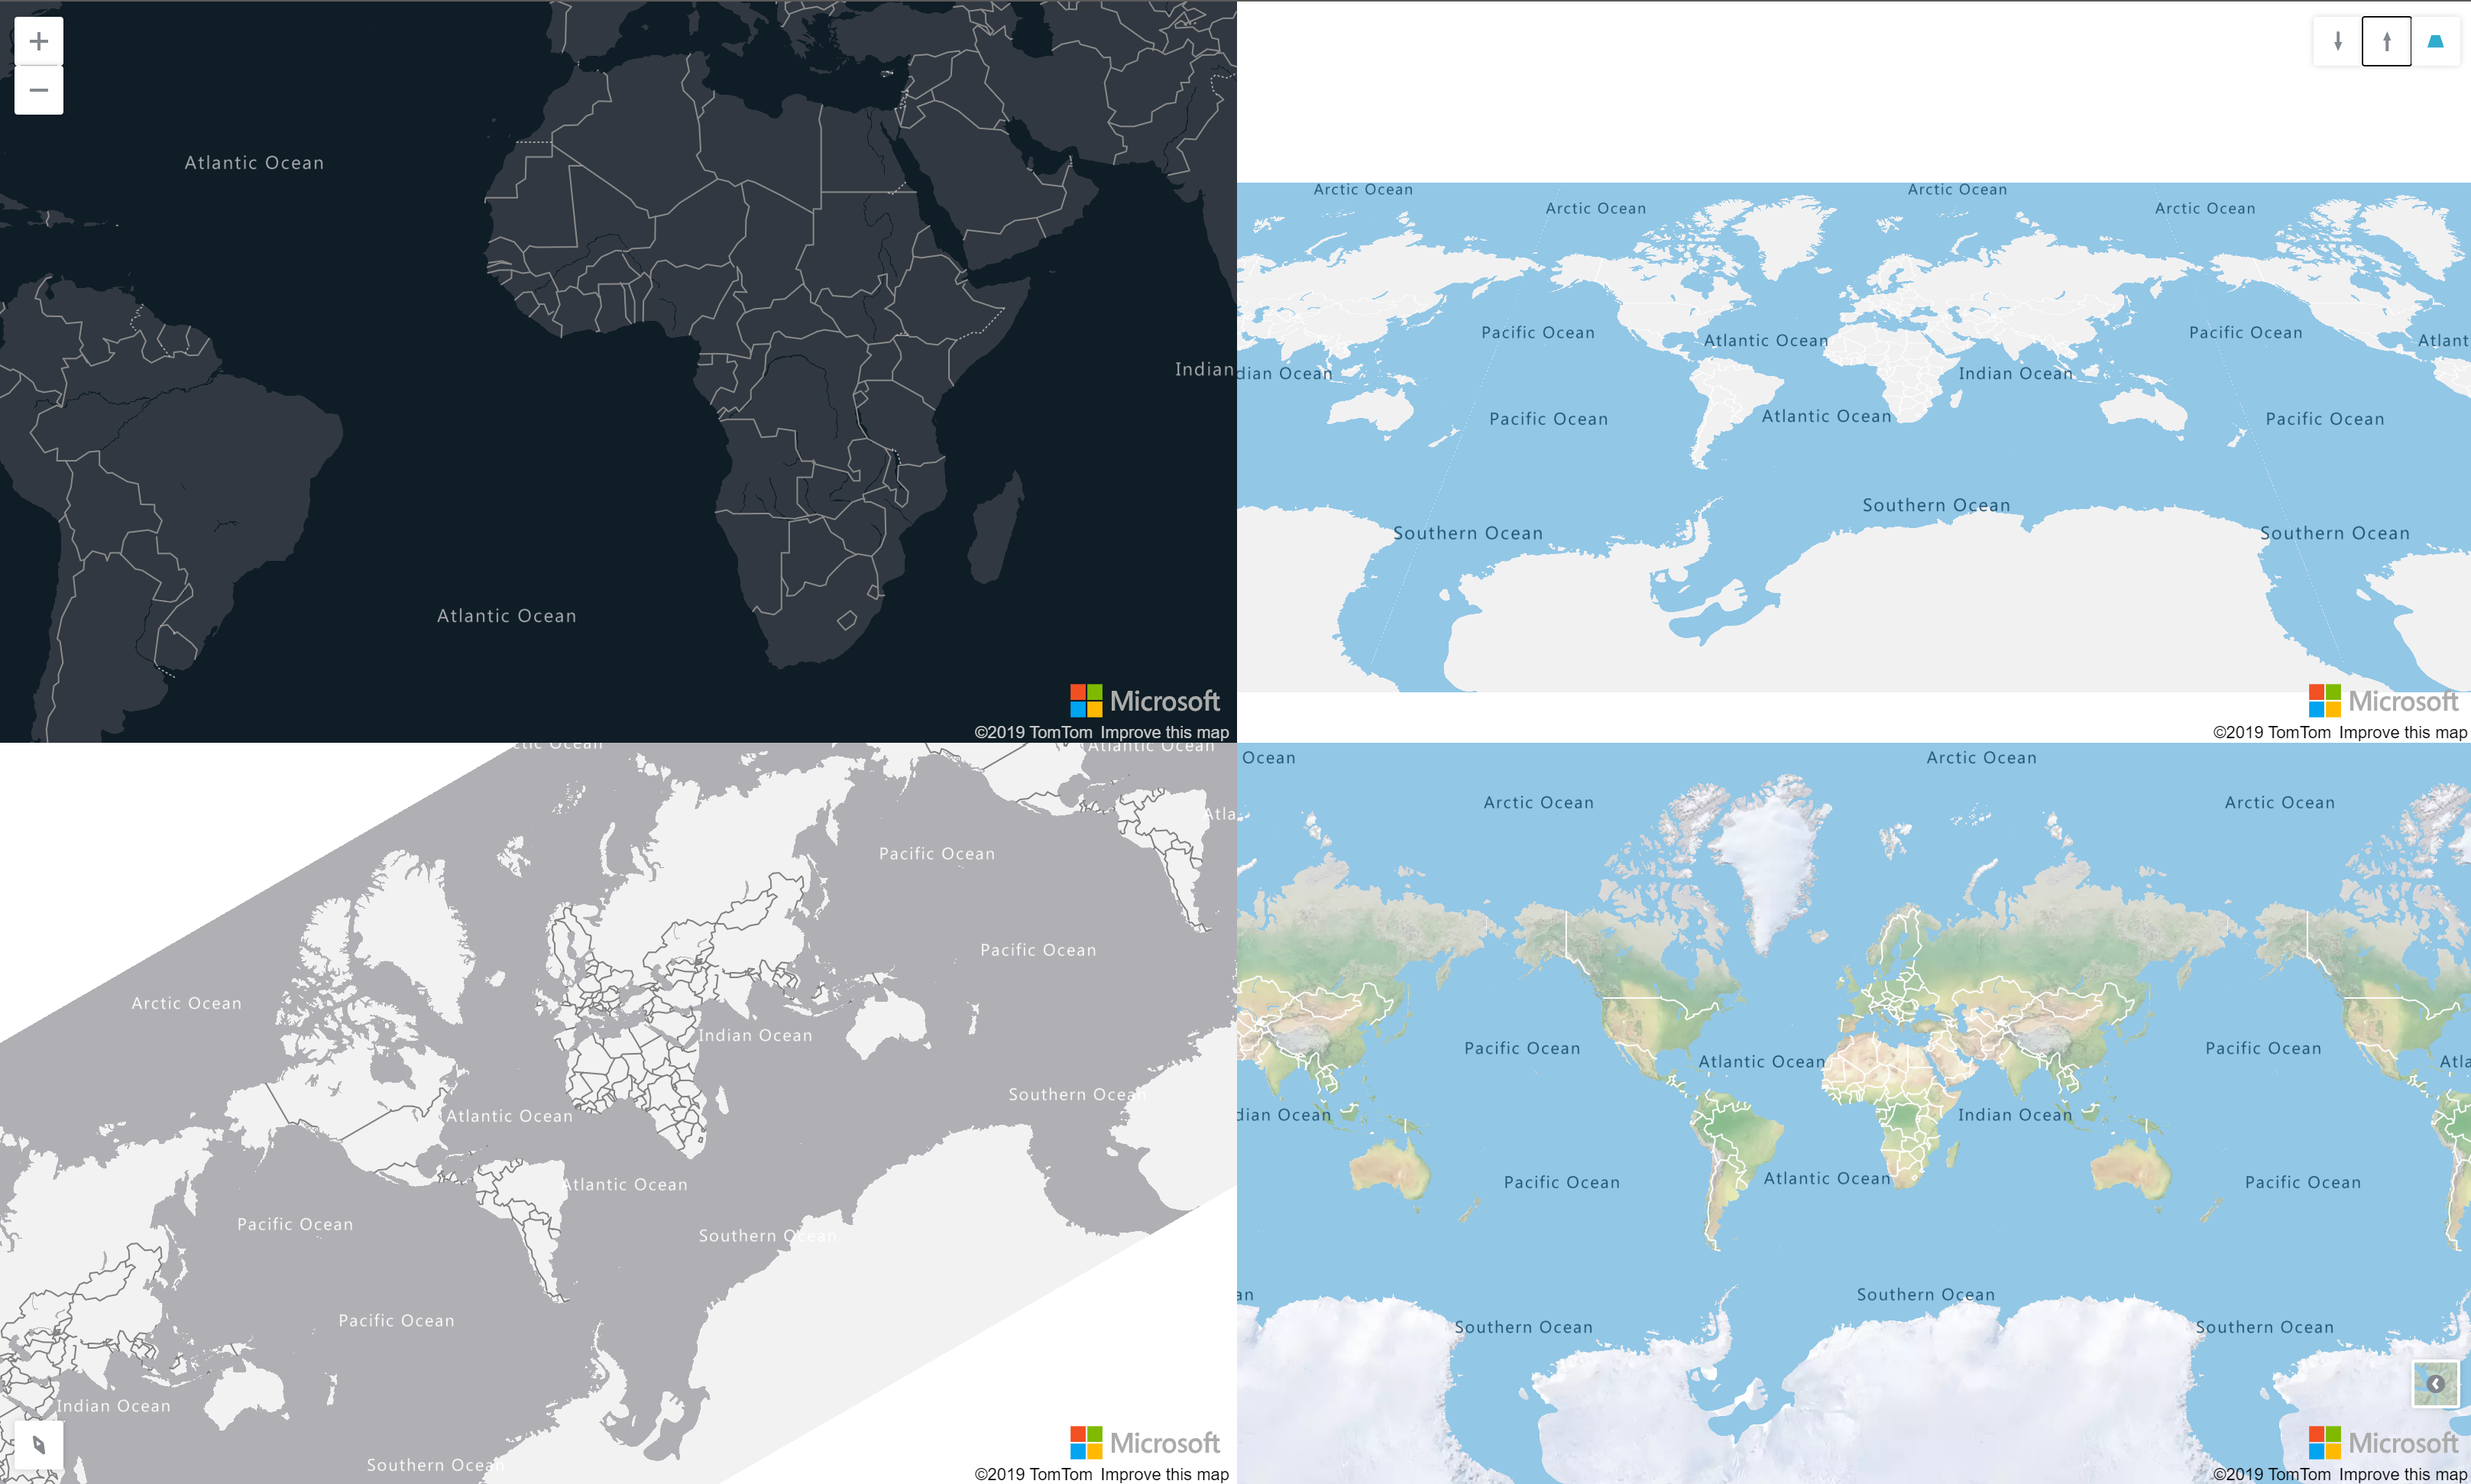
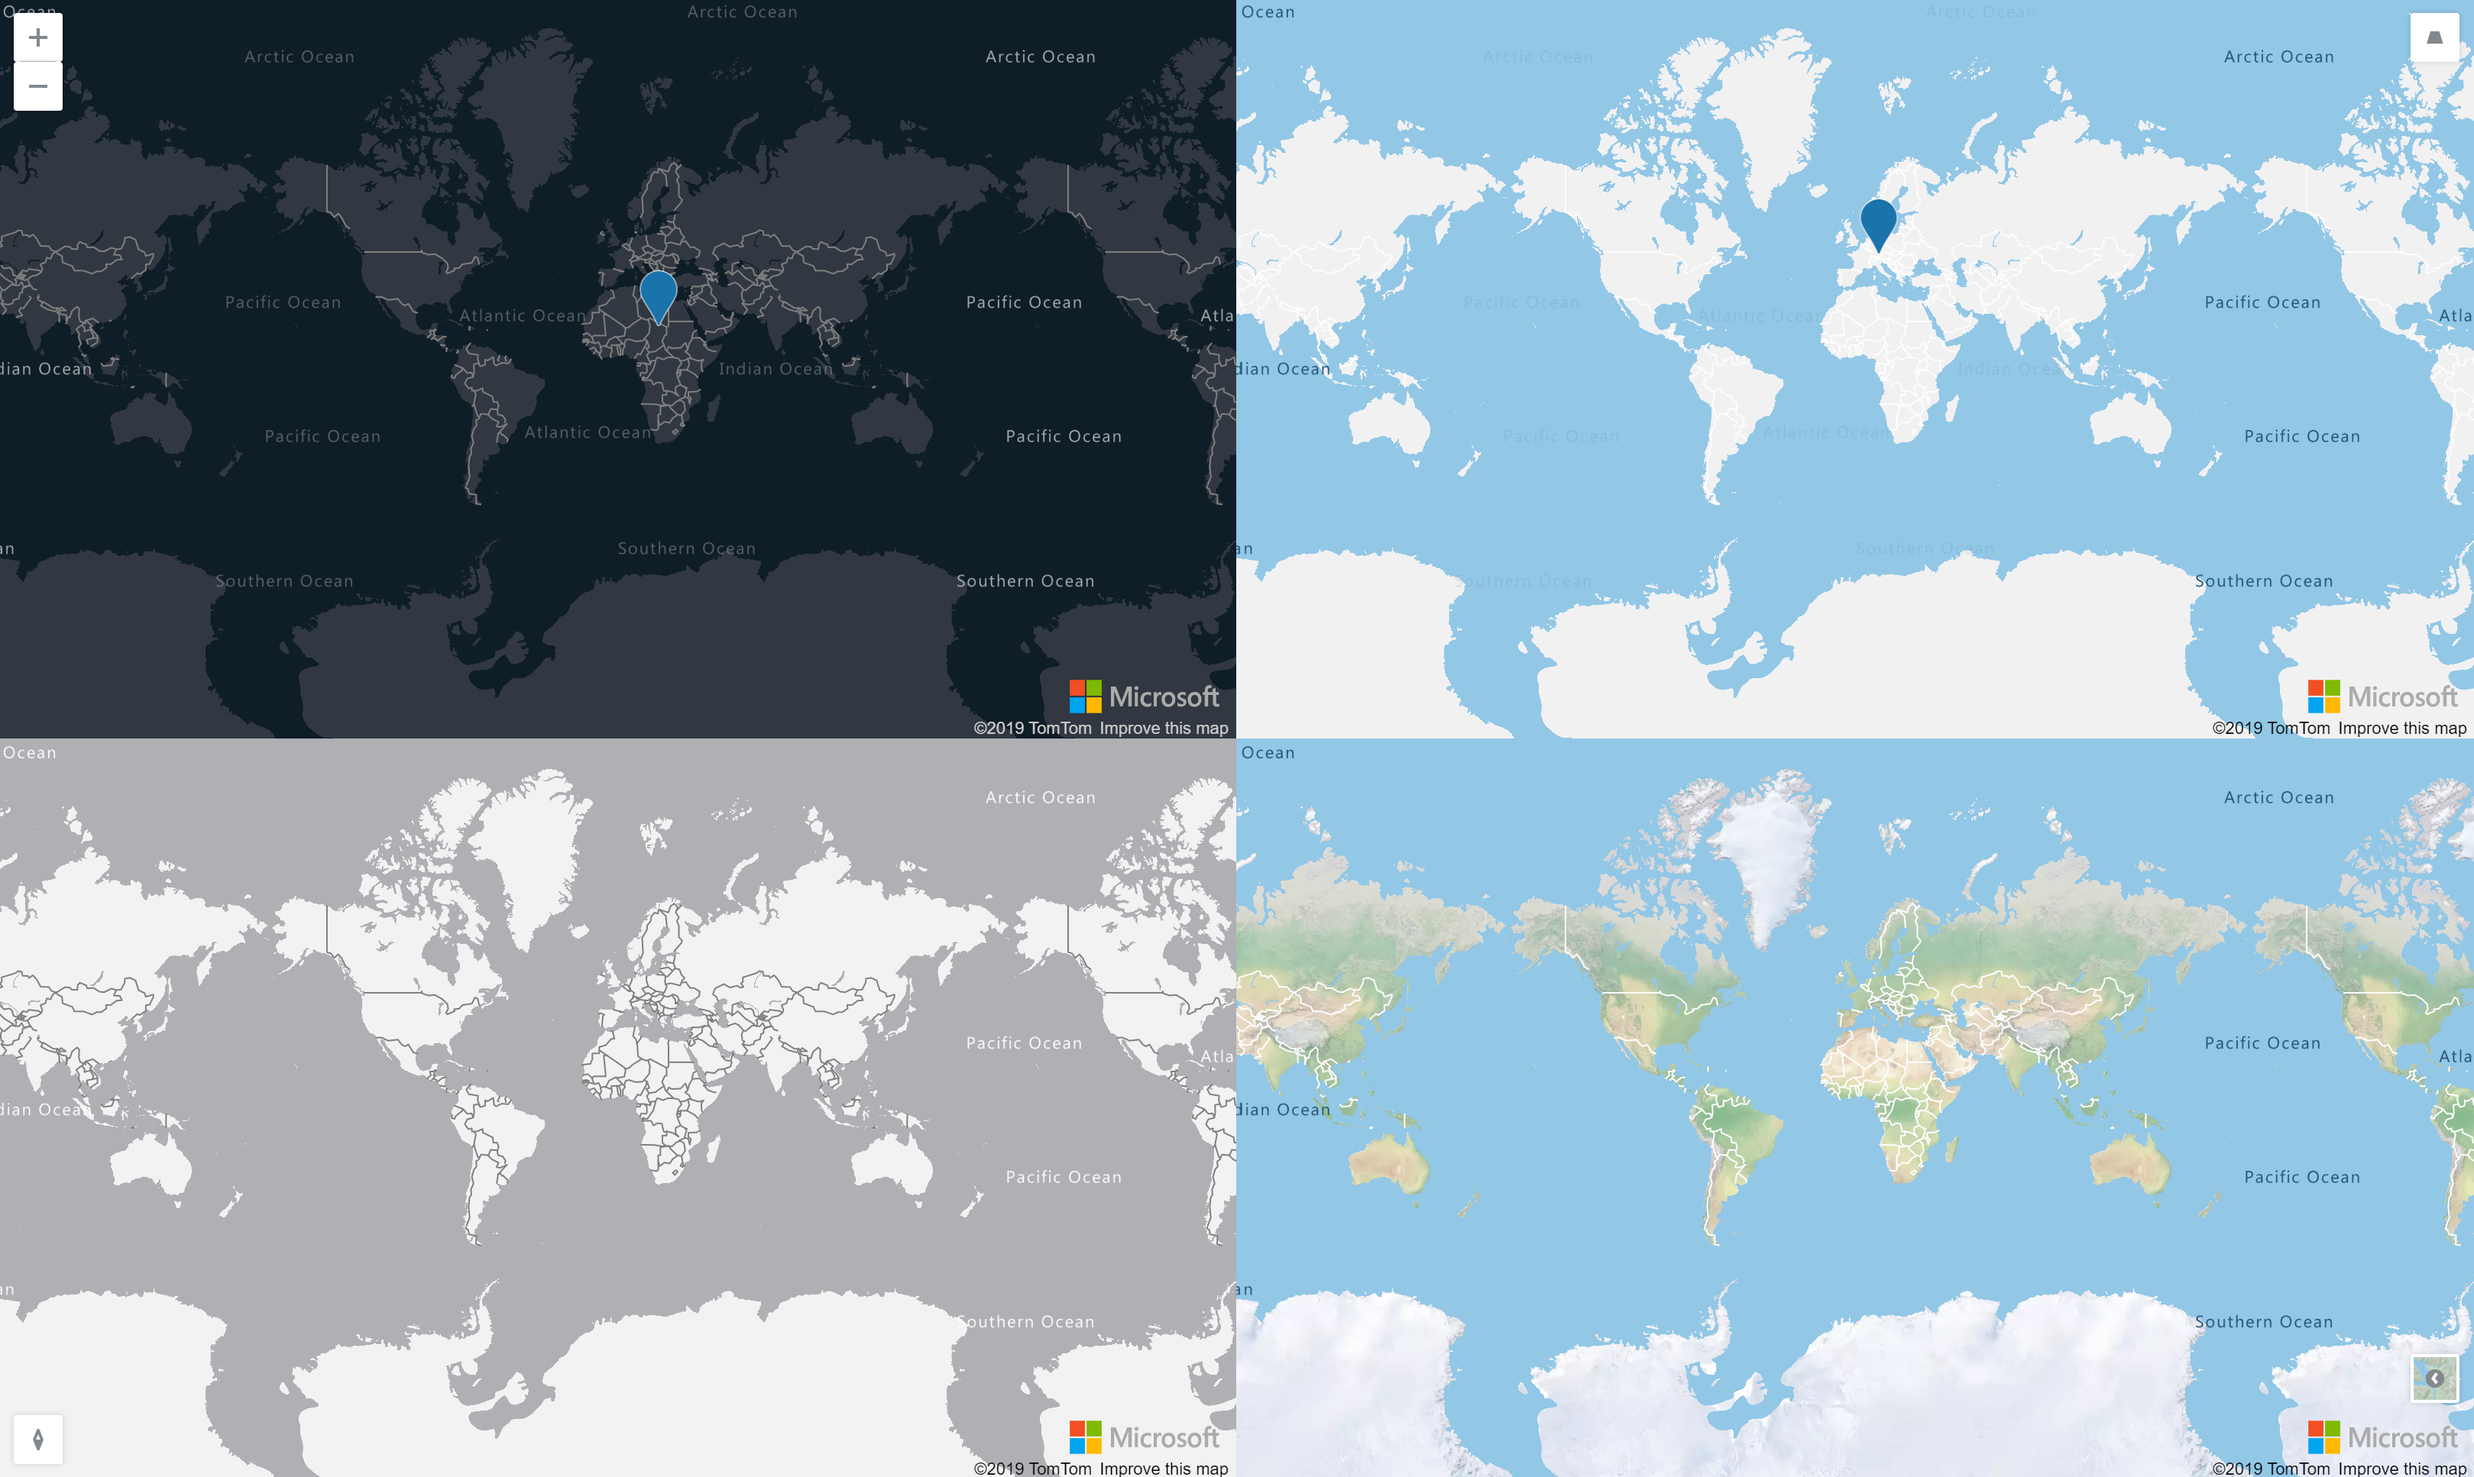
Adding element tag on directives

diff --git a/projects/ng-azure-maps/src/lib/directives/markers/html-marker.directive.ts b/projects/ng-azure-maps/src/lib/directives/markers/html-marker.directive.ts
@@ -3,7 +3,7 @@ import { Map, Pixel } from 'azure-maps-control';
 import * as atlas from 'azure-maps-control';
 
 @Directive({
-  selector: '[html-marker]'
+  selector: '[html-marker], html-marker'
 })
 export class HtmlMarkerDirective
   implements OnChanges, OnDestroy {
@@ -22,24 +22,29 @@ export class HtmlMarkerDirective
   @Input() public visible: boolean;
 
   ngOnChanges(changes: SimpleChanges) {
-    this._marker.setOptions({
-      anchor: this.anchor,
-      color: this.color,
-      draggable: this.draggable,
-      htmlContent: this.htmlContent,
-      pixelOffset: this.pixelOffset,
-      position: this.position,
-      secondaryColor: this.secondaryColor,
-      text: this.text,
-      visible: this.visible
-    });
+    if (this._marker) {
+      this._marker.setOptions({
+        anchor: this.anchor,
+        color: this.color,
+        draggable: this.draggable,
+        htmlContent: this.htmlContent,
+        pixelOffset: this.pixelOffset,
+        position: this.position,
+        secondaryColor: this.secondaryColor,
+        text: this.text,
+        visible: this.visible
+      });
+    }
   }
 
   ngOnDestroy() {
-    this._map.markers.remove(this._marker);
+    if (this._map) {
+      this._map.markers.remove(this._marker);
+    }
   }
 
   public addToMap(map: Map) {
+    this._map = map;
     this._marker = new atlas.HtmlMarker({
       anchor: this.anchor,
       color: this.color,
@@ -53,8 +58,6 @@ export class HtmlMarkerDirective
     });
 
     map.markers.add(this._marker);
-
-    this._map = map;
   }
 
 }

diff --git a/projects/samples-ng-azure-maps/src/app/app.component.html b/projects/samples-ng-azure-maps/src/app/app.component.html
@@ -1,13 +1,14 @@
-<div azure-map [center]="[0, 0]" mapStyle='grayscale_dark' view='Auto' zoom="2" class="top-left">
-  <div zoom-control position='top-left'></div>
-  <div *ngIf="markerPosition" html-marker [position]="markerPosition"></div>
-</div>
-<!-- <div azure-map [center]="[0, 0]" mapStyle='road' view='Auto' zoom="2" class="top-right">
-  <div pitch-control position="top-right"></div>
+<azure-map [center]="[0, 0]" mapStyle='grayscale_dark' view='Auto' zoom="2" class="top-left">
+  <zoom-control position='top-left'></zoom-control>
+  <html-marker *ngIf="markerPosition" [position]="markerPosition"></html-marker>
+</azure-map>
+<div azure-map [center]="[0, 0]" mapStyle='road' view='Auto' [zoom]="2" class="top-right">
+  <pitch-control position="top-right"></pitch-control>
+  <html-marker [position]="[11.47, 48.18]"></html-marker>
 </div>
 <div azure-map [center]="[0, 0]" mapStyle='grayscale_light' view='Auto' zoom="2" class="bottom-left">
-  <div compass-control position="bottom-left"></div>
+  <compass-control position="bottom-left"></compass-control>
 </div>
 <div azure-map [center]="[0, 0]" mapStyle='road_shaded_relief' view='Auto' zoom="2" class="bottom-right">
-  <div style-control position="bottom-right"></div>
-</div> -->
+  <style-control position="bottom-right"></style-control>
+</div>

diff --git a/projects/ng-azure-maps/src/lib/directives/map/azure-map.directive.ts b/projects/ng-azure-maps/src/lib/directives/map/azure-map.directive.ts
@@ -10,7 +10,7 @@ import { StyleControlDirective } from '../controls/style-control.directive';
 import { HtmlMarkerDirective } from '../markers/html-marker.directive';
 
 @Directive({
-  selector: '[azure-map]',
+  selector: '[azure-map], azure-map',
   queries: {
     zoomControl: new ContentChild(ZoomControlDirective),
     pitchControl: new ContentChild(PitchControlDirective),
@@ -20,7 +20,7 @@ import { HtmlMarkerDirective } from '../markers/html-marker.directive';
   }
 })
 export class AzureMapDirective
-  implements AfterViewInit, AfterContentChecked, OnDestroy {
+  implements AfterViewInit, OnDestroy {
 
   private _map: Map;
 
@@ -140,10 +140,6 @@ export class AzureMapDirective
       }
 
     });
-  }
-
-  ngAfterContentChecked() {
-
   }
 
   ngOnDestroy() {

diff --git a/projects/ng-azure-maps/src/lib/directives/controls/zoom-control.directive.ts b/projects/ng-azure-maps/src/lib/directives/controls/zoom-control.directive.ts
@@ -4,7 +4,7 @@ import * as atlas from 'azure-maps-control';
 import { ControlDirective } from './control.directive';
 
 @Directive({
-  selector: '[zoom-control]'
+  selector: '[zoom-control], zoom-control'
 })
 export class ZoomControlDirective
   extends ControlDirective {

diff --git a/projects/ng-azure-maps/src/lib/directives/controls/compass-control.directive.ts b/projects/ng-azure-maps/src/lib/directives/controls/compass-control.directive.ts
@@ -4,7 +4,7 @@ import { Map } from 'azure-maps-control';
 import * as atlas from 'azure-maps-control';
 
 @Directive({
-  selector: '[compass-control]'
+  selector: '[compass-control], compass-control'
 })
 export class CompassControlDirective
   extends ControlDirective {

diff --git a/projects/ng-azure-maps/src/lib/directives/controls/pitch-control.directive.ts b/projects/ng-azure-maps/src/lib/directives/controls/pitch-control.directive.ts
@@ -4,7 +4,7 @@ import { Map } from 'azure-maps-control';
 import * as atlas from 'azure-maps-control';
 
 @Directive({
-  selector: '[pitch-control]'
+  selector: '[pitch-control], pitch-control'
 })
 export class PitchControlDirective
   extends ControlDirective {

diff --git a/projects/ng-azure-maps/src/lib/directives/controls/style-control.directive.ts b/projects/ng-azure-maps/src/lib/directives/controls/style-control.directive.ts
@@ -4,7 +4,7 @@ import { Map } from 'azure-maps-control';
 import * as atlas from 'azure-maps-control';
 
 @Directive({
-  selector: '[style-control]'
+  selector: '[style-control], style-control'
 })
 export class StyleControlDirective
   extends ControlDirective {

diff --git a/projects/samples-ng-azure-maps/src/app/app.component.scss b/projects/samples-ng-azure-maps/src/app/app.component.scss
@@ -1,4 +1,4 @@
-div {
+div, azure-map {
   position:absolute;
   width:100%;
   min-width:290px;

diff --git a/README.md b/README.md
@@ -17,6 +17,8 @@ This is a WIP of an Angular wrapper around the azure-maps-control package. It ex
   - Adds a style control on the map
 - zoom-control
   - Adds a zoom control on the map
+- html-marker
+  - Adds a HTML Marker on the map
 
 ## How to register the module
 
@@ -53,17 +55,19 @@ AAD and SubscriptionKey authentication are supported.
 The following examples displays 4 maps, each having a different control attached.
 
 ```
-<div azure-map [center]="[0, 0]" mapStyle='grayscale_dark' view='Auto' zoom="2" class="top-left">
-  <div zoom-control position='top-left'></div>
-</div>
-<div azure-map [center]="[0, 0]" mapStyle='road' view='Auto' zoom="2" class="top-right">
-  <div pitch-control position="top-right"></div>
+<azure-map [center]="[0, 0]" mapStyle='grayscale_dark' view='Auto' zoom="2" class="top-left">
+  <zoom-control position='top-left'></zoom-control>
+  <html-marker *ngIf="markerPosition" [position]="markerPosition"></html-marker>
+</azure-map>
+<div azure-map [center]="[0, 0]" mapStyle='road' view='Auto' [zoom]="2" class="top-right">
+  <pitch-control position="top-right"></pitch-control>
+  <html-marker [position]="[11.47, 48.18]"></html-marker>
 </div>
 <div azure-map [center]="[0, 0]" mapStyle='grayscale_light' view='Auto' zoom="2" class="bottom-left">
-  <div compass-control position="bottom-left"></div>
+  <compass-control position="bottom-left"></compass-control>
 </div>
 <div azure-map [center]="[0, 0]" mapStyle='road_shaded_relief' view='Auto' zoom="2" class="bottom-right">
-  <div style-control position="bottom-right"></div>
+  <style-control position="bottom-right"></style-control>
 </div>
 ```
 

diff --git a/projects/ng-azure-maps/README.md b/projects/ng-azure-maps/README.md
@@ -17,6 +17,8 @@ This is a WIP of an Angular wrapper around the azure-maps-control package. It ex
   - Adds a style control on the map
 - zoom-control
   - Adds a zoom control on the map
+- html-marker
+  - Adds a HTML Marker on the map
 
 ## How to register the module
 
@@ -53,17 +55,19 @@ AAD and SubscriptionKey authentication are supported.
 The following examples displays 4 maps, each having a different control attached.
 
 ```
-<div azure-map [center]="[0, 0]" mapStyle='grayscale_dark' view='Auto' zoom="2" class="top-left">
-  <div zoom-control position='top-left'></div>
-</div>
-<div azure-map [center]="[0, 0]" mapStyle='road' view='Auto' zoom="2" class="top-right">
-  <div pitch-control position="top-right"></div>
+<azure-map [center]="[0, 0]" mapStyle='grayscale_dark' view='Auto' zoom="2" class="top-left">
+  <zoom-control position='top-left'></zoom-control>
+  <html-marker *ngIf="markerPosition" [position]="markerPosition"></html-marker>
+</azure-map>
+<div azure-map [center]="[0, 0]" mapStyle='road' view='Auto' [zoom]="2" class="top-right">
+  <pitch-control position="top-right"></pitch-control>
+  <html-marker [position]="[11.47, 48.18]"></html-marker>
 </div>
 <div azure-map [center]="[0, 0]" mapStyle='grayscale_light' view='Auto' zoom="2" class="bottom-left">
-  <div compass-control position="bottom-left"></div>
+  <compass-control position="bottom-left"></compass-control>
 </div>
 <div azure-map [center]="[0, 0]" mapStyle='road_shaded_relief' view='Auto' zoom="2" class="bottom-right">
-  <div style-control position="bottom-right"></div>
+  <style-control position="bottom-right"></style-control>
 </div>
 ```
 
